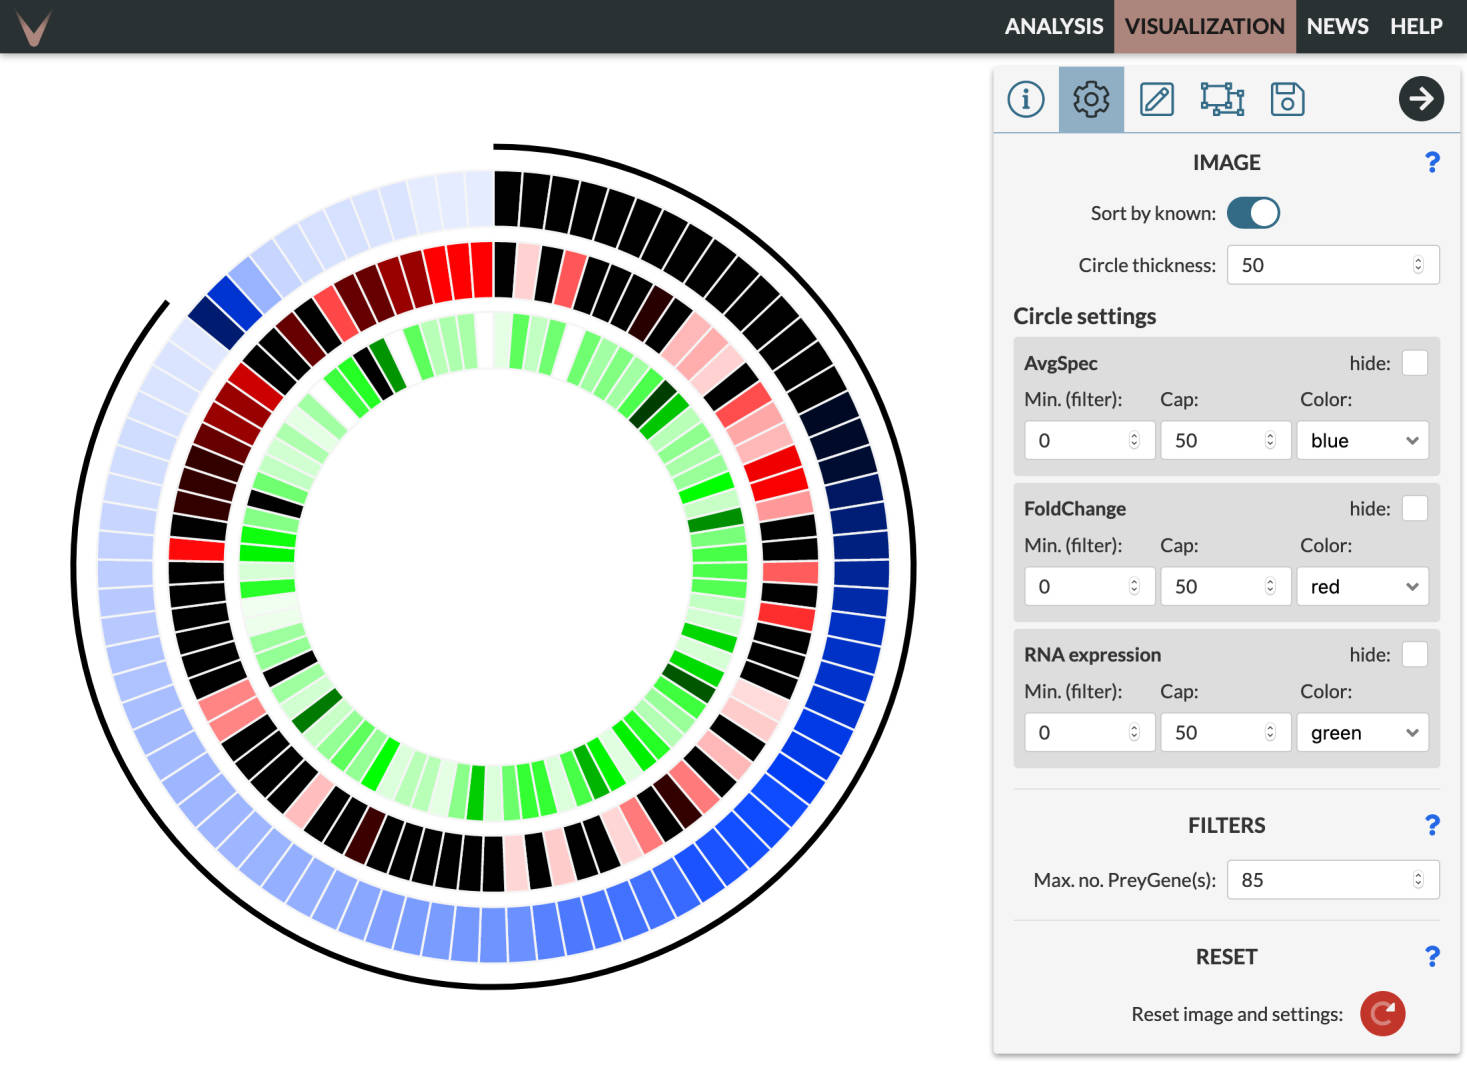
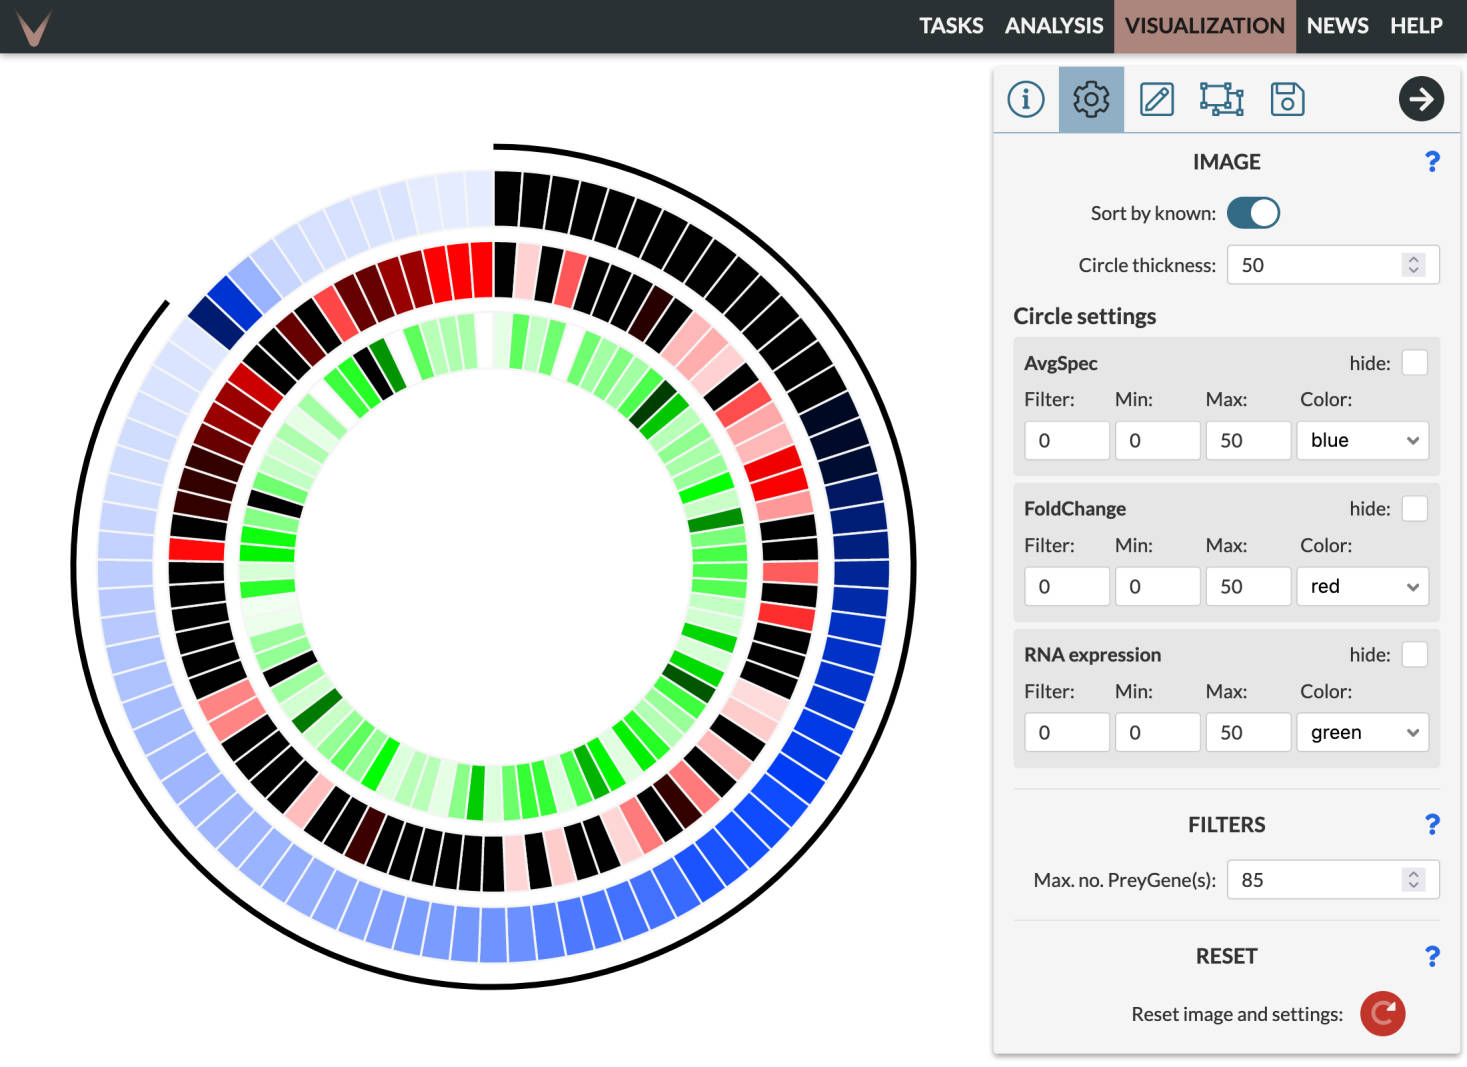
Update circheatmap help for negative data

diff --git a/src/help/visualization/circheatmap/circheatmap.js b/src/help/visualization/circheatmap/circheatmap.js
@@ -140,10 +140,11 @@ const CircHeatmap = () => (
       {' '}
       drag-and-drop area.
       In this area there is a card for each metric visualized on the image. Clicking and dragging a card allows
-      reordering of the circles on the image. The minimum value for each metric acts as an inclusive filter. Only
-      readouts equal to or above that value will be displayed on the image. The cap is a visual cap on the colour
-      scale, with any values at or above being given the highest intensity colour. The visibility of circles
-      can be controlled using the &quot;hide&quot; checkbox.
+      reordering of the circles on the image. Only readouts with an absolute value equal to or above the
+      &quot;Filter&quot; will be displayed on the image. The &quot;Min&quot; and &quot;Max&quot; are visual caps
+      for the colour scale, with any value below the minimum being given the lowest intensity colour and any value
+      above the maximum being given the highest intensity colour. The visibility of circles can be controlled using the
+      &quot;hide&quot; checkbox.
     </p>
     <h4 id="settings-filtering">Filtering</h4>
     <p>
@@ -223,7 +224,7 @@ const CircHeatmap = () => (
       <figcaption>
         <span>Making selections</span>
         . Specific readouts can be selected from the selection menu on the side panel,
-        clicking on a segment, and by right-clicking and pasting a list into the selection menu.
+        by clicking on a segment or by right-clicking and pasting a list into the selection menu.
       </figcaption>
     </figure>
     <h4 id="selections-snapshot">Manual filtering</h4>
@@ -293,7 +294,7 @@ const CircHeatmap = () => (
     </p>
     <p>
       Analysis results will open automatically in a separate tabular view. The image can be returned to from the
-      menu in the upper left.
+      menu button in the upper left.
     </p>
     <figure className="help__image-screenshot">
       <Image

diff --git a/src/help/visualization/heatmap/heatmap.js b/src/help/visualization/heatmap/heatmap.js
@@ -545,8 +545,8 @@ const Heatmap = () => (
       <figcaption>
         <span>Making selections</span>
         . Specific columns and rows can be selected from the selection menus on the side panel,
-        right-clicking on a column or row label, clicking and dragging the mouse over an area of the
-        image, and by right-clicking and pasting a list into the selection menu.
+        by right-clicking on a column or row label, by clicking and dragging the mouse over an area of the
+        image or by right-clicking and pasting a list into the selection menu.
       </figcaption>
     </figure>
     <h4 id="selections-snapshot">Manual filtering and snapshots</h4>

diff --git a/src/help/visualization/scatter/scatter.js b/src/help/visualization/scatter/scatter.js
@@ -281,7 +281,7 @@ const Scatter = () => (
       <figcaption>
         <span>Making selections</span>
         . Specific points can be selected from the selection menu on the side panel,
-        by clicking on a point, by right-clicking and pasting a list into the selection menu, and by
+        by clicking on a point, by right-clicking and pasting a list into the selection menu or by
         holding the SHIFT key and dragging the cursor around the desired points.
       </figcaption>
     </figure>
